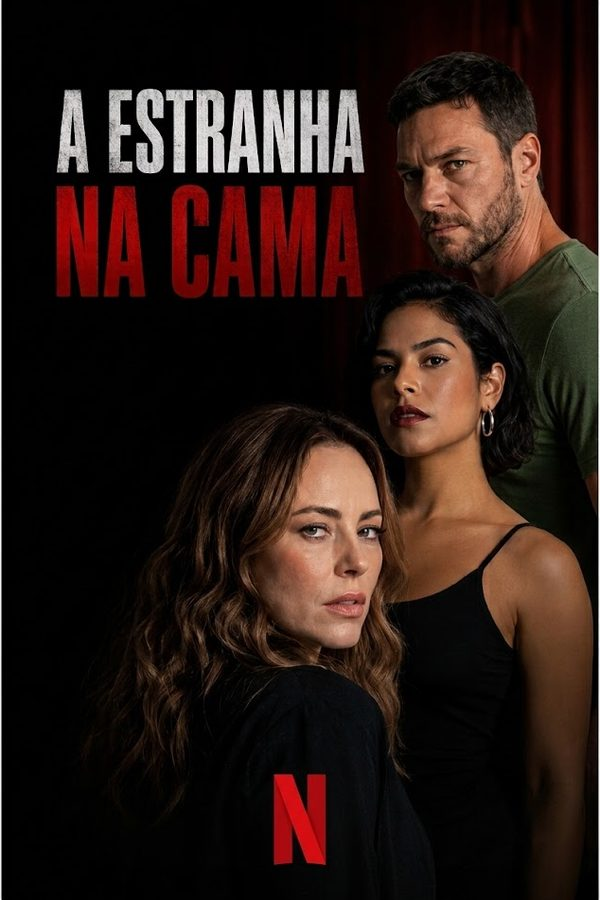
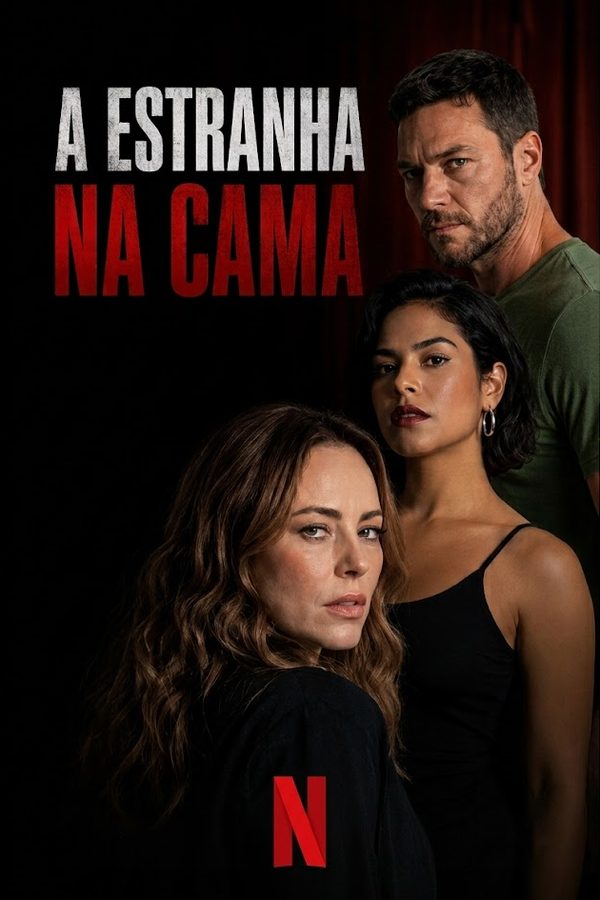
Lides com os numeros do curriculo, sinopses sem travessao, poster aparado
As lides dos onze paineis foram reescritas com o que o PDF do portfolio 2026
comprova, em vez de descricao generica de funcao: quatro producoes na Fabrica
com A Estranha na Cama e Galera FC nomeadas, quatro series e 32 episodios no
Grupo Sal, seis producoes para quatro plataformas globais no DOT Cine,
clientes nomeados no Mellin, primeira producao original de ficcao da
Paramount+ no Brasil. Numero verificavel vende mais que adjetivo.

As fichas do Grupo Sal e da Fabrica passaram a mostrar esses numeros.

Sinopses da Escrita sem travessao, com parenteses e dois-pontos no lugar.
Trocar travessao por virgula empilhava virgula demais na mesma frase, entao
as duas primeiras foram reescritas em vez de substituidas.

A Estranha na Cama estava com fio branco de 2px nas laterais: o corte antigo
so aparava linha uniforme, e a moldura tinha degrade de canto arredondado.
Reaparado por brilho medio por lado antes do recorte 2:3.

diff --git a/index.html b/index.html
@@ -173,7 +173,7 @@
               <div class="peca-corpo">
                 <div class="peca-texto">
                   <p class="peca-marca alta"><img src="assets/posters/marcas/mellin.png" alt="Mellin Studio" loading="lazy" decoding="async"></p>
-                  <p class="peca-lede">Respondo pelo fluxo de pós das séries documentais e dos programas lifestyle do <strong>Canal OFF</strong>: prazo, alocação de equipe e entrega dentro do padrão técnico do canal. Em paralelo, conduzo a edição e a finalização das campanhas da agência.</p>
+                  <p class="peca-lede">Respondo pelo fluxo de pós das séries documentais e dos programas lifestyle do <strong>Canal OFF</strong>: prazo, alocação de equipe e entrega dentro do padrão técnico do canal. Em paralelo, conduzo a edição e a finalização das campanhas da agência para <strong>Banco C6</strong>, <strong>Cerveja Praya</strong> e <strong>Brasil Surfe Clube</strong>, com gestão de ativos e controle de processo.</p>
                   <ul class="peca-ficha">
                     <li><b>Séries documentais</b> e lifestyle</li>
                     <li><b>Campanhas</b> de marca</li>
@@ -205,7 +205,7 @@
               <div class="peca-corpo">
                 <div class="peca-texto">
                   <p class="peca-marca"><img src="assets/posters/marcas/maracutaia.png" alt="Maracutaia.fm" loading="lazy" decoding="async"></p>
-                  <p class="peca-lede">Escolho os artistas, defino a linha estética de cada sessão e assino a edição e a finalização dos sets. Do primeiro ao último episódio, <strong>a mesma identidade</strong> — mais as peças promocionais que sustentam o alcance da marca.</p>
+                  <p class="peca-lede">Escolho os artistas, defino a linha estética de cada sessão e assino a edição e a finalização dos sets. Do primeiro ao último episódio, <strong>a mesma identidade</strong>, mais as peças promocionais que sustentam o alcance da marca.</p>
                   <ul class="peca-ficha">
                     <li><b>09</b> sets no ar</li>
                     <li><b>Curadoria</b>, edição e finalização</li>
@@ -259,10 +259,10 @@
               <h3>Do cronograma<br>à entrega final</h3>
               <div class="peca-corpo">
                 <div class="peca-texto">
-                  <p class="peca-lede">Respondi pelo ciclo inteiro de pós de séries e longas, do planejamento à entrega: <strong>cronograma macro, orçamento, análise de desvio e realocação de recurso</strong>. Fui o ponto focal entre a produção executiva e as áreas técnicas, padronizando pipeline e gestão de ativos.</p>
+                  <p class="peca-lede">Coordenei o ciclo inteiro de pós de <strong>quatro produções</strong> entre série e longa, incluindo <strong>A Estranha na Cama</strong> (Netflix) e <strong>Galera FC</strong> (TNT), do planejamento à entrega final. Respondi pela viabilidade técnica e financeira de cada projeto: cronograma macro, orçamento, análise de desvio e realocação de recurso, com pipeline e gestão de ativos padronizados entre a produção executiva e as áreas técnicas.</p>
                   <ul class="peca-ficha">
                     <li><b>04</b> produções</li>
-                    <li><b>Séries</b> e longas</li>
+                    <li><b>Série</b> e longas</li>
                     <li><b>2025</b></li>
                   </ul>
                 </div>
@@ -294,10 +294,10 @@
               <h3>Episódio a episódio,<br>no padrão do canal</h3>
               <div class="peca-corpo">
                 <div class="peca-texto">
-                  <p class="peca-lede">Organizei e supervisionei os fluxos de pós de séries documentais e programas lifestyle do <strong>Canal OFF</strong>, alinhando prazo, equipe e entrega ao padrão do canal e sustentando a coesão técnica e narrativa entre os episódios.</p>
+                  <p class="peca-lede">Organizei e supervisionei a pós de <strong>quatro séries do Canal OFF</strong>, 32 episódios entre documental e lifestyle, alinhando prazo, equipe e entrega ao padrão do canal e sustentando a coesão técnica e narrativa episódio a episódio.</p>
                   <ul class="peca-ficha">
-                    <li><b>04</b> séries no ar</li>
-                    <li><b>Canal OFF</b></li>
+                    <li><b>04</b> séries do Canal OFF</li>
+                    <li><b>32</b> episódios</li>
                     <li><b>2024</b> › 2025</li>
                   </ul>
                 </div>
@@ -329,7 +329,7 @@
               <h3>Originais para<br>streaming global</h3>
               <div class="peca-corpo">
                 <div class="peca-texto">
-                  <p class="peca-lede">Geri o fluxo de materiais e entregáveis de projetos multiepisódicos para <strong>Netflix, Disney+, Star+ e HBO Max</strong>, sob padrão técnico internacional e prazo rígido: interlocução entre produtoras, ilhas e plataformas, antecipação de gargalo e conform técnico para cada especificação.</p>
+                  <p class="peca-lede">Geri o fluxo de materiais e entregáveis de <strong>seis produções</strong> para <strong>Netflix, Disney+, Star+ e HBO Max</strong>, sob padrão técnico internacional e prazo rígido. Fui a interlocução entre produtoras, ilhas de edição e plataformas, antecipando gargalo em projeto multiepisódico e respondendo pelo conform técnico de cada especificação.</p>
                   <ul class="peca-ficha">
                     <li><b>06</b> produções</li>
                     <li><b>04</b> plataformas globais</li>
@@ -374,7 +374,7 @@
               <div class="peca-corpo">
                 <div class="peca-texto">
                   <p class="peca-marca"><img src="assets/posters/marcas/porta-dos-fundos.png" alt="Porta dos Fundos" loading="lazy" decoding="async"></p>
-                  <p class="peca-lede">Conduzi a operação de entrega semanal de esquetes para múltiplas plataformas, em alta demanda e prazo crítico: <strong>edição, motion e finalização rodando em paralelo</strong>, processo padronizado entre criação, produção e pós, e relatórios de fluxo que sustentaram as decisões de capacidade produtiva.</p>
+                  <p class="peca-lede">Conduzi a operação de entrega semanal de esquetes para múltiplas plataformas, em alta demanda e prazo crítico: <strong>edição, motion e finalização rodando em paralelo</strong>, alocação de horas por equipe e processo padronizado entre criação, produção e pós. Os relatórios de fluxo e de controle de qualidade que montei sustentaram as decisões de capacidade produtiva.</p>
                   <ul class="peca-ficha">
                     <li><b>03</b> entregas por semana</li>
                     <li><b>Multiplataforma</b></li>
@@ -402,7 +402,7 @@
               <h3>A primeira ficção<br>original da Paramount+</h3>
               <div class="peca-corpo">
                 <div class="peca-texto">
-                  <p class="peca-lede">Em <strong>As Seguidoras</strong>, primeira produção original de ficção da Paramount+ no Brasil, conformei materiais em todas as etapas da pós e supervisionei a criação e a integração das telas de dispositivos, elemento dramático central da série. Em <strong>Coração Suburbano</strong>, organizei e conformei materiais e padronizei as entregas dentro do prazo da plataforma.</p>
+                  <p class="peca-lede">Em <strong>As Seguidoras</strong>, primeira produção original de ficção da Paramount+ no Brasil, conformei materiais em todas as etapas da pós e supervisionei a criação e a integração das telas de dispositivos, elemento dramático central da série. Em <strong>Coração Suburbano</strong>, documental estrelado por Rafael Portugal, organizei e conformei materiais e padronizei as entregas dentro do prazo da plataforma.</p>
                   <ul class="peca-ficha">
                     <li><b>02</b> produções</li>
                     <li><b>Paramount+</b> Brasil</li>
@@ -436,7 +436,7 @@
               <div class="peca-corpo">
                 <div class="peca-texto">
                   <p class="peca-marca"><img src="assets/posters/marcas/dafina.png" alt="Dafina" loading="lazy" decoding="async"></p>
-                  <p class="peca-lede">Desenvolvi e escrevi formatos originais em três frentes, cada uma com um público e uma régua editorial diferentes — do conteúdo pedagógico ao branded, do estudante ao assinante de streaming.</p>
+                  <p class="peca-lede">Desenvolvi e escrevi formatos originais em três frentes, cada uma com público e régua editorial diferentes: conteúdo pedagógico com meta de retenção no <strong>Descomplica</strong>, narrativa de marca na <strong>NotCo</strong> e expansão de portfólio digital no <strong>Discovery+</strong>.</p>
                   <ul class="peca-ficha">
                     <li><b>Desenvolvimento</b> e roteiro</li>
                     <li><b>03</b> frentes</li>
@@ -485,7 +485,7 @@
               <h3>Finalização técnica,<br>refino de roteiro</h3>
               <div class="peca-corpo">
                 <div class="peca-texto">
-                  <p class="peca-lede">Nas séries <strong>302</strong> e <strong>502</strong>, do Canal Brasil, preparei e finalizei tecnicamente os episódios sustentando a consistência visual e narrativa entre temporadas, e escrevi promos e conteúdo digital. Em <strong>Era de Ouro</strong>, da A&amp;E, apoiei a finalização e colaborei no refinamento de roteiro e edição com o Omelete.</p>
+                  <p class="peca-lede">Nas séries <strong>302</strong> e <strong>502</strong>, do Canal Brasil, preparei e finalizei tecnicamente os episódios sustentando a consistência visual e narrativa entre temporadas, e escrevi promos e conteúdo digital para redes. Em <strong>Era de Ouro</strong>, da A&amp;E, apoiei a finalização e colaborei no refinamento de roteiro e edição em parceria com o Omelete.</p>
                   <ul class="peca-ficha">
                     <li><b>03</b> produções</li>
                     <li><b>Canal Brasil</b> · A&amp;E</li>
@@ -520,7 +520,7 @@
               <div class="peca-corpo">
                 <div class="peca-texto">
                   <p class="peca-marca"><img src="assets/posters/marcas/descomplica.png" alt="Descomplica" loading="lazy" decoding="async"></p>
-                  <p class="peca-lede">Escrevi o <strong>Dez Segundos</strong> todo dia: dez perguntas, dez segundos por resposta, três alternativas. Estrutura de episódio e dinâmica desenhadas para o ritmo do ao vivo e para segurar público jovem na reta final do ENEM.</p>
+                  <p class="peca-lede">Escrevi o <strong>Dez Segundos</strong> todo dia: dez perguntas, dez segundos por resposta, três alternativas. Estrutura de episódio, questões e interações desenhadas para o ritmo do ao vivo e para transformar conteúdo de estudo em entretenimento na reta final do ENEM.</p>
                   <ul class="peca-ficha">
                     <li><b>Ao vivo</b> às 21h, todo dia</li>
                     <li><b>Níveis</b> 01 › 05</li>
@@ -661,7 +661,7 @@
             <span class="row-plus row-ext" aria-hidden="true"></span>
             <span class="visually-hidden">(abre em nova aba)</span>
           </a>
-          <p class="row-sinopse">Balanço da década de 2010 organizado por janela — aberta, paga básica, paga premium e streaming — porque a lógica de produção de cada uma é diferente e medir todas pela mesma régua é o vício que premiação e crítica repetem. A tese: elevar a TV a arte engessou <em>um único referencial de qualidade</em>, o de produção cara com linguagem cinematográfica e nome de peso na ficha técnica. Entre um argumento e outro, a conta do mercado: os contratos bilionários de showrunner, os 300 milhões de <em>The Morning Show</em> e a dívida da Netflix na corrida por catálogo.</p>
+          <p class="row-sinopse">Balanço da década de 2010 organizado por janela (aberta, paga básica, paga premium e streaming), porque a lógica de produção de cada uma é diferente e medir todas pela mesma régua é o vício que premiação e crítica repetem. A tese: elevar a TV a arte engessou <em>um único referencial de qualidade</em>, o da produção cara com linguagem cinematográfica e nome de peso na ficha técnica. Entre um argumento e outro, a conta do mercado: contratos bilionários de showrunner, os 300 milhões de <em>The Morning Show</em> e a dívida da Netflix na corrida por catálogo.</p>
         </li>
         <li class="row row-out">
           <a class="row-hit" href="https://www.academia.edu/30951846/A_Televis%C3%A3o_de_Qualidade_e_a_Com%C3%A9dia_na_TV_Paga_Norte_Americana_Quando_com%C3%A9dias_se_tornaram_dramas_de_30_minutos" target="_blank" rel="noopener">
@@ -671,7 +671,7 @@
             <span class="row-plus row-ext" aria-hidden="true"></span>
             <span class="visually-hidden">(abre em nova aba)</span>
           </a>
-          <p class="row-sinopse">Monografia que vira do avesso o conceito de <em>televisão de qualidade</em>. A alcunha, na crítica e no mercado, quase sempre se cola ao drama; aqui o objeto é a comédia da TV paga americana — história, conceito e função social do gênero — com a HBO no centro, por ser o canal que consolidou o termo no próprio discurso institucional. A pergunta do título é a provocação: quando comédias viraram dramas de 30 minutos?</p>
+          <p class="row-sinopse">Monografia que vira do avesso o conceito de <em>televisão de qualidade</em>. A alcunha, na crítica e no mercado, quase sempre se cola ao drama; aqui o objeto é a comédia da TV paga americana: história, conceito e função social do gênero, com a HBO no centro por ser o canal que consolidou o termo no próprio discurso institucional. A pergunta do título é a provocação: quando comédias viraram dramas de 30 minutos?</p>
         </li>
         <li class="row row-out">
           <a class="row-hit" href="https://www.academia.edu/36102539/HBO_e_a_Ruptura_do_Discurso_de_Diferencia%C3%A7%C3%A3o_o_caso_Enlightened_" target="_blank" rel="noopener">

diff --git a/en/index.html b/en/index.html
@@ -173,7 +173,7 @@
               <div class="peca-corpo">
                 <div class="peca-texto">
                   <p class="peca-marca alta"><img src="../assets/posters/marcas/mellin.png" alt="Mellin Studio" loading="lazy" decoding="async"></p>
-                  <p class="peca-lede">I own the post workflow for the documentary series and lifestyle programming of <strong>Canal OFF</strong>: deadlines, crew allocation and delivery inside the technical standard of the channel. In parallel, I run editing and finishing for the agency's brand campaigns.</p>
+                  <p class="peca-lede">I own the post workflow for the documentary series and lifestyle programming of <strong>Canal OFF</strong>: deadlines, crew allocation and delivery inside the technical standard of the channel. In parallel I run editing and finishing for the agency's campaigns for <strong>Banco C6</strong>, <strong>Cerveja Praya</strong> and <strong>Brasil Surfe Clube</strong>, with asset management and process control.</p>
                   <ul class="peca-ficha">
                     <li><b>Documentary series</b> and lifestyle</li>
                     <li><b>Brand</b> campaigns</li>
@@ -259,7 +259,7 @@
               <h3>From the schedule<br>to final delivery</h3>
               <div class="peca-corpo">
                 <div class="peca-texto">
-                  <p class="peca-lede">I owned the full post cycle of series and features, from planning to delivery: <strong>master schedule, budget, variance analysis and resource reallocation</strong>. I was the focal point between executive production and the technical departments, standardizing the pipeline and asset management.</p>
+                  <p class="peca-lede">I coordinated the full post cycle of <strong>four productions</strong> across series and features, including <strong>A Estranha na Cama</strong> (Netflix) and <strong>Galera FC</strong> (TNT), from planning to final delivery. I owned the technical and financial viability of each project: master schedule, budget, variance analysis and resource reallocation, with a standardized pipeline and asset management between executive production and the technical departments.</p>
                   <ul class="peca-ficha">
                     <li><b>04</b> productions</li>
                     <li><b>Series</b> and features</li>
@@ -294,10 +294,10 @@
               <h3>Episode by episode,<br>at channel standard</h3>
               <div class="peca-corpo">
                 <div class="peca-texto">
-                  <p class="peca-lede">I organized and supervised the post workflows of documentary series and lifestyle programming for <strong>Canal OFF</strong>, aligning deadlines, crews and deliveries with the channel standard and holding technical and narrative cohesion across episodes.</p>
+                  <p class="peca-lede">I organized and supervised post on <strong>four Canal OFF series</strong>, 32 episodes across documentary and lifestyle, aligning deadlines, crews and deliveries with the channel standard and holding technical and narrative cohesion episode by episode.</p>
                   <ul class="peca-ficha">
-                    <li><b>04</b> series on air</li>
-                    <li><b>Canal OFF</b></li>
+                    <li><b>04</b> Canal OFF series</li>
+                    <li><b>32</b> episodes</li>
                     <li><b>2024</b> › 2025</li>
                   </ul>
                 </div>
@@ -329,7 +329,7 @@
               <h3>Originals for<br>global streaming</h3>
               <div class="peca-corpo">
                 <div class="peca-texto">
-                  <p class="peca-lede">I managed material and deliverable flow on multi-episode projects for <strong>Netflix, Disney+, Star+ and HBO Max</strong>, under international technical standards and hard deadlines: liaison between production companies, edit suites and platforms, bottleneck anticipation and technical conform for each spec.</p>
+                  <p class="peca-lede">I managed material and deliverable flow on <strong>six productions</strong> for <strong>Netflix, Disney+, Star+ and HBO Max</strong>, under international technical standards and hard deadlines. I was the liaison between production companies, edit suites and platforms, anticipating bottlenecks on multi-episode projects and owning technical conform for each spec.</p>
                   <ul class="peca-ficha">
                     <li><b>06</b> productions</li>
                     <li><b>04</b> global platforms</li>
@@ -374,7 +374,7 @@
               <div class="peca-corpo">
                 <div class="peca-texto">
                   <p class="peca-marca"><img src="../assets/posters/marcas/porta-dos-fundos.png" alt="Porta dos Fundos" loading="lazy" decoding="async"></p>
-                  <p class="peca-lede">I ran the weekly sketch delivery operation across multiple platforms, under high demand and critical deadlines: <strong>editing, motion and finishing running in parallel</strong>, a standardized process between creative, production and post, and workflow reports that informed the calls on production capacity.</p>
+                  <p class="peca-lede">I ran the weekly sketch delivery operation across multiple platforms, under high demand and critical deadlines: <strong>editing, motion and finishing running in parallel</strong>, hour allocation per team and a standardized process between creative, production and post. The workflow and quality control reports I built informed the calls on production capacity.</p>
                   <ul class="peca-ficha">
                     <li><b>03</b> deliveries a week</li>
                     <li><b>Multiplatform</b></li>
@@ -402,7 +402,7 @@
               <h3>The first original<br>fiction on Paramount+</h3>
               <div class="peca-corpo">
                 <div class="peca-texto">
-                  <p class="peca-lede">On <strong>As Seguidoras</strong>, the first original fiction production of Paramount+ in Brazil, I conformed materials across every post stage and supervised the creation and integration of the device screens, a central dramatic element of the show. On <strong>Coração Suburbano</strong>, I organized and conformed materials and standardized deliveries inside the platform deadline.</p>
+                  <p class="peca-lede">On <strong>As Seguidoras</strong>, the first original fiction production of Paramount+ in Brazil, I conformed materials across every post stage and supervised the creation and integration of the device screens, a central dramatic element of the show. On <strong>Coração Suburbano</strong>, a documentary starring Rafael Portugal, I organized and conformed materials and standardized deliveries inside the platform deadline.</p>
                   <ul class="peca-ficha">
                     <li><b>02</b> productions</li>
                     <li><b>Paramount+</b> Brazil</li>
@@ -436,7 +436,7 @@
               <div class="peca-corpo">
                 <div class="peca-texto">
                   <p class="peca-marca"><img src="../assets/posters/marcas/dafina.png" alt="Dafina" loading="lazy" decoding="async"></p>
-                  <p class="peca-lede">I developed and wrote original formats on three fronts, each with a different audience and a different editorial bar — from educational content to branded, from the student to the streaming subscriber.</p>
+                  <p class="peca-lede">I developed and wrote original formats on three fronts, each with a different audience and editorial bar: educational content with a retention target at <strong>Descomplica</strong>, brand narrative at <strong>NotCo</strong> and digital portfolio expansion at <strong>Discovery+</strong>.</p>
                   <ul class="peca-ficha">
                     <li><b>Development</b> and writing</li>
                     <li><b>03</b> fronts</li>
@@ -485,7 +485,7 @@
               <h3>Technical finishing,<br>script polish</h3>
               <div class="peca-corpo">
                 <div class="peca-texto">
-                  <p class="peca-lede">On the series <strong>302</strong> and <strong>502</strong>, for Canal Brasil, I prepared and technically finished the episodes while holding visual and narrative consistency across seasons, and wrote promos and digital content. On <strong>Era de Ouro</strong>, for A&amp;E, I supported finishing and worked on script and edit refinement with Omelete.</p>
+                  <p class="peca-lede">On the series <strong>302</strong> and <strong>502</strong>, for Canal Brasil, I prepared and technically finished the episodes while holding visual and narrative consistency across seasons, and wrote promos and digital content for social. On <strong>Era de Ouro</strong>, for A&amp;E, I supported finishing and worked on script and edit refinement with Omelete.</p>
                   <ul class="peca-ficha">
                     <li><b>03</b> productions</li>
                     <li><b>Canal Brasil</b> · A&amp;E</li>
@@ -520,7 +520,7 @@
               <div class="peca-corpo">
                 <div class="peca-texto">
                   <p class="peca-marca"><img src="../assets/posters/marcas/descomplica.png" alt="Descomplica" loading="lazy" decoding="async"></p>
-                  <p class="peca-lede">I wrote <strong>Dez Segundos</strong> every day: ten questions, ten seconds per answer, three options. Episode structure and question dynamics designed for the rhythm of live broadcast and for holding a young audience through the final stretch before the ENEM exam.</p>
+                  <p class="peca-lede">I wrote <strong>Dez Segundos</strong> every day: ten questions, ten seconds per answer, three options. Episode structure, questions and interactions designed for the rhythm of live broadcast and to turn study material into entertainment through the final stretch before the ENEM exam.</p>
                   <ul class="peca-ficha">
                     <li><b>Live</b> at 9pm, every day</li>
                     <li><b>Levels</b> 01 › 05</li>
@@ -661,7 +661,7 @@
             <span class="row-plus row-ext" aria-hidden="true"></span>
             <span class="visually-hidden">(opens in a new tab)</span>
           </a>
-          <p class="row-sinopse">A read on the 2010s split by window — broadcast, basic cable, premium cable and streaming — because each one produces under a different logic, and measuring them all with the same ruler is the habit awards and criticism keep repeating. The thesis: elevating TV to art froze <em>a single standard of quality</em>, the expensive production with cinematic language and a marquee name on the credits. Between arguments, the market math: the billion-dollar showrunner deals, the $300 million behind <em>The Morning Show</em> and the debt Netflix ran up chasing catalogue.</p>
+          <p class="row-sinopse">A read on the 2010s split by window (broadcast, basic cable, premium cable and streaming), because each one produces under a different logic, and measuring them all with the same ruler is the habit awards and criticism keep repeating. The thesis: elevating TV to art froze <em>a single standard of quality</em>, the expensive production with cinematic language and a marquee name on the credits. Between arguments, the market math: billion-dollar showrunner deals, the $300 million behind <em>The Morning Show</em> and the debt Netflix ran up chasing catalogue.</p>
         </li>
         <li class="row row-out">
           <a class="row-hit" href="https://www.academia.edu/30951846/A_Televis%C3%A3o_de_Qualidade_e_a_Com%C3%A9dia_na_TV_Paga_Norte_Americana_Quando_com%C3%A9dias_se_tornaram_dramas_de_30_minutos" target="_blank" rel="noopener">
@@ -671,7 +671,7 @@
             <span class="row-plus row-ext" aria-hidden="true"></span>
             <span class="visually-hidden">(opens in a new tab)</span>
           </a>
-          <p class="row-sinopse">A thesis that turns the notion of <em>quality television</em> inside out. In criticism and in the market the label almost always sticks to drama; here the object is comedy on American pay TV — the history, the concept and the social function of the genre — with HBO at the center, as the channel that consolidated the term in its own institutional discourse. The title carries the provocation: when did comedies become 30-minute dramas?</p>
+          <p class="row-sinopse">A thesis that turns the notion of <em>quality television</em> inside out. In criticism and in the market the label almost always sticks to drama; here the object is comedy on American pay TV: the history, the concept and the social function of the genre, with HBO at the center for being the channel that consolidated the term in its own institutional discourse. The title carries the provocation: when did comedies become 30-minute dramas?</p>
         </li>
         <li class="row row-out">
           <a class="row-hit" href="https://www.academia.edu/36102539/HBO_e_a_Ruptura_do_Discurso_de_Diferencia%C3%A7%C3%A3o_o_caso_Enlightened_" target="_blank" rel="noopener">
